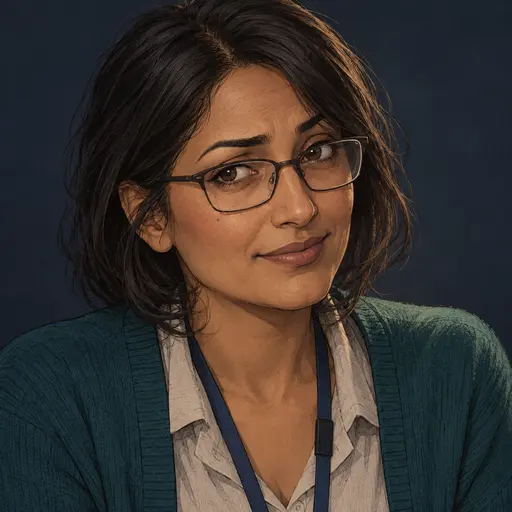
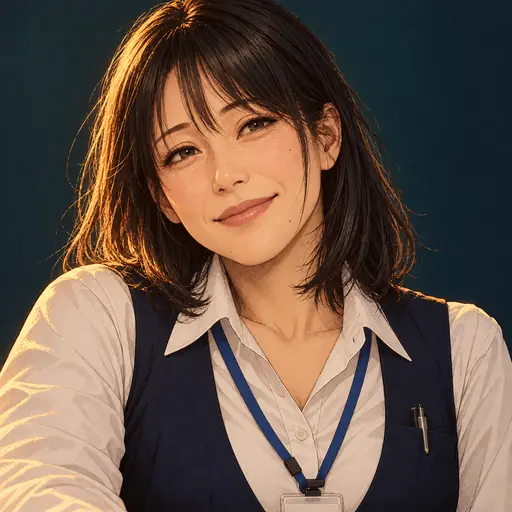
Differentiate Sora, Priya and Mei character designs

diff --git a/index.html b/index.html
@@ -668,13 +668,13 @@
   <text x="296" y="465" class="sign-text" font-size="6.5" text-anchor="middle" fill="#fff3ea">TICKETS</text>
   <rect x="270" y="470" width="52" height="40" fill="#ffd27a" opacity="0.92"/>
   <defs><clipPath id="priya-window"><rect x="270" y="470" width="52" height="40"/></clipPath></defs><g clip-path="url(#priya-window)"><g id="priya-figure" class="manga-figure" transform="translate(296 526) scale(0.73)">
- <path d="M-12 -38Q0 -44 12 -38L15 -9Q0 -5 -15 -9Z" fill="#4b7b7c" stroke="#24333b" stroke-width=".8"/>
- <path d="M-3 -40H4L5 -10H-4Z" fill="#d0c8b3" opacity=".65"/><path d="M-8 -39L-2 -34L-4 -30M8 -39L3 -34L5 -30M-10 -25L-9 -12M10 -25L9 -12" fill="none" stroke="#26343c" stroke-width=".6"/>
- <path d="M-12 -35L-17 -13L-14 -5M12 -35L17 -14L14 -5" fill="none" stroke="#4b7b7c" stroke-width="5" stroke-linecap="round"/>
- <path d="M-14 -7V-3M14 -7V-3" stroke="#b68869" stroke-width="3" stroke-linecap="round"/>
- <path d="M-2 -46V-40H3V-46" fill="#b68869"/><ellipse cy="-55" rx="6" ry="9" fill="#b68869" stroke="#65564d" stroke-width=".5"/>
- <path d="M-7 -48Q-12 -65 0 -66Q10 -66 9 -48L5 -42L5 -58L1 -53L-4 -51L-5 -44Z" fill="#30363b"/><path d="M-4 -54L-1 -54M2 -55L5 -55M-2 -48Q1 -47 3 -49" fill="none" stroke="#514942" stroke-width=".65" stroke-linecap="round"/>
- <g fill="none" stroke="#766e60" stroke-width=".8"><rect x="-6" y="-55" width="5" height="3" rx="1"/><rect x="1" y="-55" width="5" height="3" rx="1"/><path d="M-1 -54H1"/></g>
+ <path d="M-12 -38Q0 -44 12 -38L15 -9Q0 -5 -15 -9Z" fill="#26384f" stroke="#24333b" stroke-width=".8"/>
+ <path d="M-5 -40H5L4 -25H-4Z" fill="#eee9db"/><path d="M-6 -38L-2 -30L3 -37" fill="none" stroke="#6994b7" stroke-width="1.3"/><rect x="-2" y="-29" width="5" height="6" fill="#d7e0e4"/><path d="M-8 -39L-2 -34L-4 -30M8 -39L3 -34L5 -30M-10 -25L-9 -12M10 -25L9 -12" fill="none" stroke="#26343c" stroke-width=".6"/>
+ <path d="M-12 -35L-17 -13L-14 -5M12 -35L17 -14L14 -5" fill="none" stroke="#26384f" stroke-width="5" stroke-linecap="round"/>
+ <path d="M-14 -7V-3M14 -7V-3" stroke="#d9ae91" stroke-width="3" stroke-linecap="round"/>
+ <path d="M-2 -46V-40H3V-46" fill="#d9ae91"/><ellipse cy="-55" rx="6" ry="9" fill="#d9ae91" stroke="#65564d" stroke-width=".5"/>
+ <path d="M-7 -48Q-12 -65 0 -66Q10 -66 9 -48L5 -42L5 -58L1 -53L-4 -51L-5 -44Z" fill="#22292f"/><path d="M-4 -54L-1 -54M2 -55L5 -55M-2 -48Q1 -47 3 -49" fill="none" stroke="#514942" stroke-width=".65" stroke-linecap="round"/>
+
 </g></g>
   <rect x="270" y="504" width="52" height="6" fill="#5a3a1c" opacity="0.8"/>
   <ellipse cx="296" cy="546" rx="40" ry="6" fill="#ffd27a" opacity="0.12"/>
@@ -871,12 +871,12 @@
   <line x1="1032" y1="442" x2="1032" y2="435" stroke="#3a1030" stroke-width="1.5"/><line x1="1032" y1="442" x2="1038" y2="444" stroke="#3a1030" stroke-width="1.5"/>
   <!-- Auntie Mei behind the counter, at the stock pot -->
   <g id="mei" class="manga-figure" transform="translate(838 469) scale(0.92)">
- <path d="M-12 -38Q0 -44 12 -38L15 -9Q0 -5 -15 -9Z" fill="#96555c" stroke="#24333b" stroke-width=".8"/>
- <path d="M-3 -40H4L5 -10H-4Z" fill="#d0c8b3" opacity=".65"/><path d="M-8 -39L-2 -34L-4 -30M8 -39L3 -34L5 -30M-10 -25L-9 -12M10 -25L9 -12" fill="none" stroke="#26343c" stroke-width=".6"/>
- <path d="M-8 -36L-5 -37L-3 -25H5L7 -37L10 -35L9 -7H-9Z" fill="#ddd0b3" stroke="#9e9585" stroke-width=".6"/><path d="M-12 -35L-17 -13L-14 -5M12 -35L17 -14L14 -5" fill="none" stroke="#96555c" stroke-width="5" stroke-linecap="round"/>
+ <path d="M-12 -38Q0 -44 12 -38L15 -9Q0 -5 -15 -9Z" fill="#333740" stroke="#24333b" stroke-width=".8"/>
+ <path d="M-3 -40H4L5 -10H-4Z" fill="#555b66" opacity=".65"/><path d="M-8 -39L-2 -34L-4 -30M8 -39L3 -34L5 -30M-10 -25L-9 -12M10 -25L9 -12" fill="none" stroke="#26343c" stroke-width=".6"/>
+ <path d="M-8 -36L-5 -37L-3 -25H5L7 -37L10 -35L9 -7H-9Z" fill="#894655" stroke="#593746" stroke-width=".6"/><path d="M-12 -35L-17 -13L-14 -5M12 -35L17 -14L14 -5" fill="none" stroke="#333740" stroke-width="5" stroke-linecap="round"/>
  <path d="M-14 -7V-3M14 -7V-3" stroke="#d7a080" stroke-width="3" stroke-linecap="round"/>
  <path d="M-2 -46V-40H3V-46" fill="#d7a080"/><ellipse cy="-55" rx="6" ry="9" fill="#d7a080" stroke="#65564d" stroke-width=".5"/>
- <ellipse cx="2" cy="-67" rx="5" ry="3.5" fill="#31373c"/><path d="M-4 -67L7 -65" stroke="#c7aa75" stroke-width=".7"/><path d="M-7 -53Q-10 -66 0 -65Q10 -65 8 -52L4 -57Q-1 -54 -4 -58Z" fill="#31373c"/><path d="M-4 -54L-1 -54M2 -55L5 -55M-2 -48Q1 -47 3 -49" fill="none" stroke="#514942" stroke-width=".65" stroke-linecap="round"/>
+ <path d="M-8 -47L-9 -59Q-8 -68 0 -67Q10 -67 9 -57L8 -46L5 -45L5 -58L1 -54L-4 -55L-5 -46Z" fill="#49445d"/><path d="M-7 -58L-6 -48M6 -61L7 -49" fill="none" stroke="#adb1b9" stroke-width="1.5"/><path d="M-5 -51L-4 -50M4 -51L5 -50" stroke="#926f69" stroke-width=".6"/><path d="M-4 -54L-1 -54M2 -55L5 -55M-2 -48Q1 -47 3 -49" fill="none" stroke="#514942" stroke-width=".65" stroke-linecap="round"/>
  <circle cx="-6" cy="-48" r="1.5" fill="#789f87"/>
 </g>
   <!-- stock pot with steam -->

diff --git a/ART-DIRECTION.md b/ART-DIRECTION.md
@@ -22,13 +22,13 @@ Rei Minato, Japanese woman age 32, short layered dark hair with one side tucked 
 
 Asset: `assets/portraits/mei-manga.webp`
 
-Auntie Mei, Chinese-Japanese woman age 52, dark hair in a loose bun with silver temple strands and simple brass hairpin, jade stud earrings, faded burgundy work blouse and cream noodle-shop apron. Kind eyes with laughter lines, knowing amused smile.
+Auntie Mei, Japanese woman around 58, sculpted dark-violet bob with silver temple streaks, sharp mature cheekbones and steady violet-gray eyes. Charcoal high-collared work blouse, practical burgundy noodle-shop apron and jade earring. Calm capable bearing, subtle wrinkles and a kind smile. An original older cyberpunk interpretation inspired by Motoko Kusanagi, grounded in her everyday role as a cook.
 
 ### priya
 
 Asset: `assets/portraits/priya-manga.webp`
 
-Priya Gale, South Asian woman age 39, straight dark hair in a loose chin-length bob, rectangular thin glasses, muted teal station cardigan over a light shirt, practical lanyard. Observant slightly raised eyebrow, understated friendly half-smile.
+Priya Gale, Japanese office worker and ferry clerk around 39, straight black shoulder-length hair with neat side-swept fringe, no glasses. Crisp white blouse, navy waistcoat, blue ID lanyard and pocket pen. Approachable cashier-like workplace warmth inspired by Smoking Behind the Supermarket with You, with original facial features and uniform. Gentle smile and quiet night-shift competence.
 
 ### matte
 
@@ -76,7 +76,7 @@ Oduya, Black harbour gold broker age 48, closely cropped dark hair, dark brown s
 
 Asset: `assets/portraits/sora-manga.webp`
 
-Sora Ember, Japanese woman age 38, wavy shoulder-length dark auburn hair, soft freckles, faded rust-orange market apron over cream shirt, rolled sleeves. Welcoming confident easy smile, one practical small ear stud.
+Sora Ember, woman around 38, honey-blonde chin-length wavy bob with side part, light brows, gray-green eyes and subtle freckles. Navy structured work jacket over a deep-blue blouse, small brass earrings and pin. Confident welcoming smile; a clearly different silhouette and colour palette from Nao’s tied brown hair and terracotta apron.
 
 ### rin
 
@@ -102,3 +102,7 @@ The Lantern Market now uses `assets/scenes/lantern-market.webp`, an original 144
 The exact prompt set is recorded in `tools/night-market-art-prompts.json`. Portraits are original character designs. Sprite references are Sora's existing game portrait and the new Nao/Kenji portraits, inspected before generation. No third-party manga panels or character images were used. The native SVG stall targets, signs, dispatch notices, parcels and wish star in `index.html` remain editable code.
 
 Nao Mizuno is a 29-year-old food-stall keeper in a cream work shirt and faded terracotta apron. Kenji Arata is a 47-year-old mechanic in moss-gray workwear, with stubble and glasses pushed onto his head. Sora remains the market's gold host. The scene uses fine ink contours, painterly amber lantern light, cool harbour shadows and wet wood; the smaller sprites share that treatment.
+
+## Three-character visual refinement
+
+Sora, Priya and Mei were redesigned with the built-in image-generation tool. The exact portrait and sprite prompts are recorded in `tools/character-redesign-prompts.json`. Sora’s transparent market sprite matches her new blonde/navy portrait; Priya’s ticket-window figure and Mei’s counter figure in `index.html` match their updated office wear and violet/silver hair. Character IDs and story progress remain unchanged. The original fifteen-portrait byte count above describes the earlier art pass, not the expanded current cast.

diff --git a/CREDITS.md b/CREDITS.md
@@ -43,3 +43,7 @@ See the `LICENSE` file. In short:
 
 If you reuse the artwork or text elsewhere, credit it as "Artwork and story from *Neon Tides*, CC BY 4.0". The copyright line in `LICENSE` names "Neon Tides contributors"; replace it with your own name if you publish under yours.
 
+
+## Character visual refinement
+
+Updated Sora, Priya and Mei portraits and Sora’s matching market sprite were created with OpenAI’s built-in image-generation tool. Sora uses blonde hair and navy workwear; Priya is an original Japanese office worker with a warm slice-of-life cashier influence; Mei is an original older cyberpunk cook inspired by Motoko Kusanagi. The illustrations use original faces and clothing rather than copies of existing characters. Native harbour figures in `index.html` were updated to match. Prompts: `tools/character-redesign-prompts.json`.
